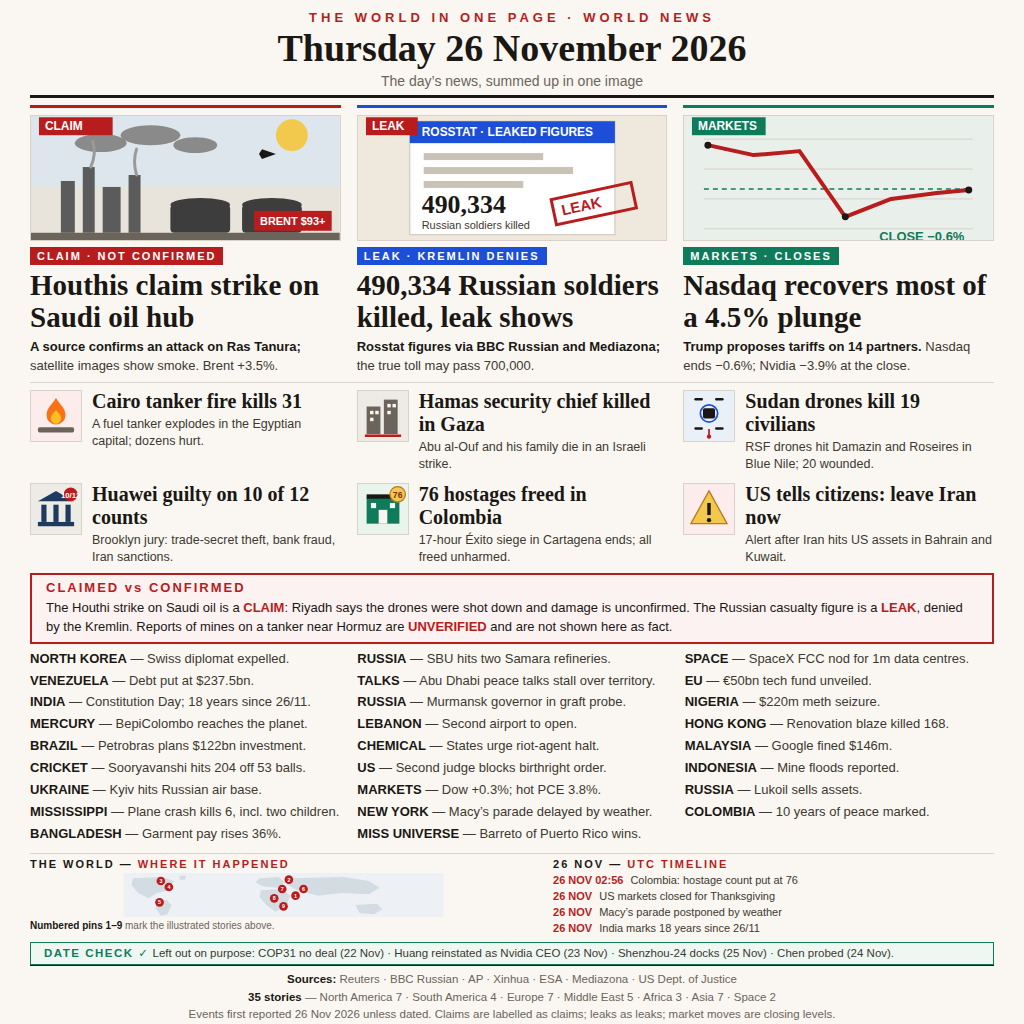
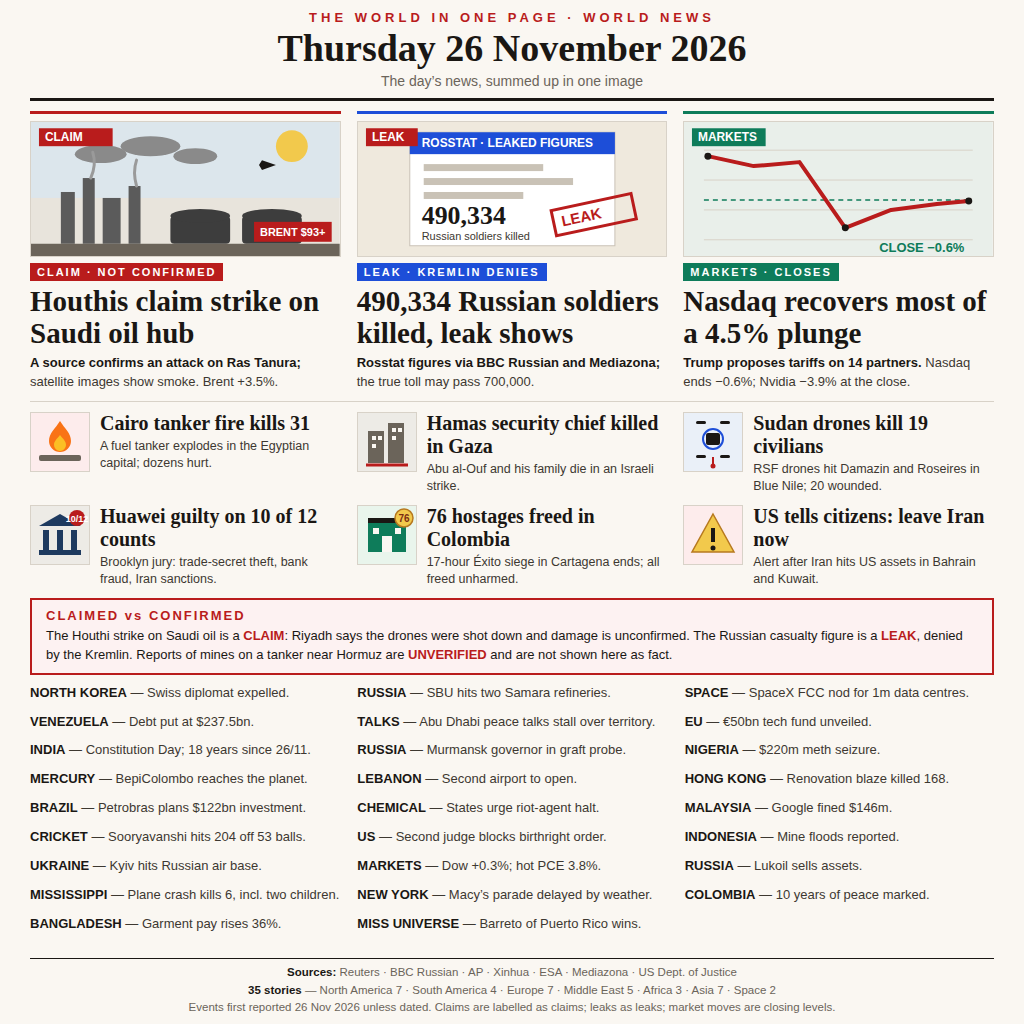
news-image v5: remove proof band and DATE CHECK, space back to stories

Changed region(s): [[0.0312, 0.0938, 0.9688, 1.0], [0.875, 0.8438, 0.9062, 0.875]]

diff --git a/main.ts b/main.ts
@@ -1,4 +1,4 @@
-// News-image entry v4: copy the rendered front page (entry.png) into the
+// News-image entry v5: copy the rendered front page (entry.png) into the
 // output directory the platform provides via MAKEFUN_OUTPUT_DIR.
 // Stdlib only; no network, no randomness, no timestamps in the output.
 // The output is deterministic by construction: the program only copies a

diff --git a/README.md b/README.md
@@ -1,4 +1,4 @@
-# The World in One Page — news-image-20261126 (v4)
+# The World in One Page — news-image-20261126 (v5)
 
 [![make.fun · news-image-20261126](https://make.fun/badge/news-image-20261126.svg)](https://make.fun/bounty/news-image-20261126?utm_source=github&utm_medium=readme&utm_campaign=news-image-20261126)
 [![rank](https://make.fun/badge/news-image-20261126/fannyangelina/news-image-20261126/rank.svg)](https://make.fun/bounty/news-image-20261126/leaderboard?utm_source=github&utm_medium=readme&utm_campaign=news-image-20261126)
@@ -6,10 +6,12 @@
 
 One 1024&times;1024 image summing up Thursday 26 November 2026's world news:
 3 hero stories, 6 mid stories, 26 briefs — 35 stories in total — plus a
-CLAIMED vs CONFIRMED box, a compact world map with numbered pins, a UTC
-timeline (all entries dated 26 Nov), an itemised DATE CHECK of stories
-deliberately left out because they happened earlier, and a sources footer
-with a region tally that sums exactly to 35.
+CLAIMED vs CONFIRMED box and a sources footer with a region tally that
+sums exactly to 35. v5 is v4 with the proof band (map + UTC timeline) and
+the DATE CHECK removed and the space given back to the stories: taller
+hero art, larger mid icons, airier briefs (29px pitch), ink back under
+13% — the closest layout to v1, our best scorer (dev 98.07%, 12-0-0),
+while keeping v2/v3's corrected facts and stronger mid stories.
 
 ## Facts, verified
 
